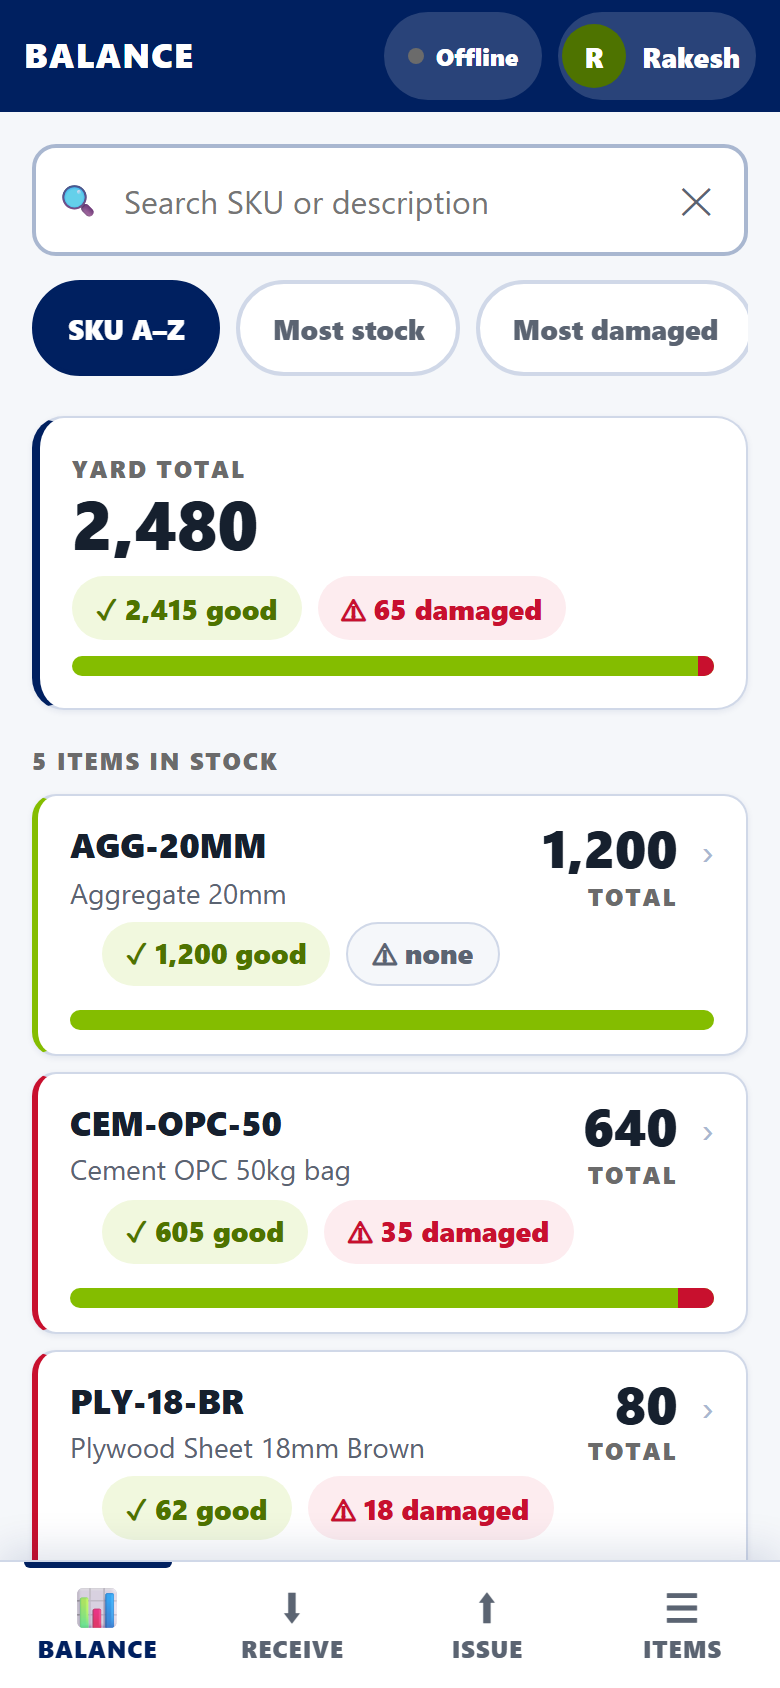
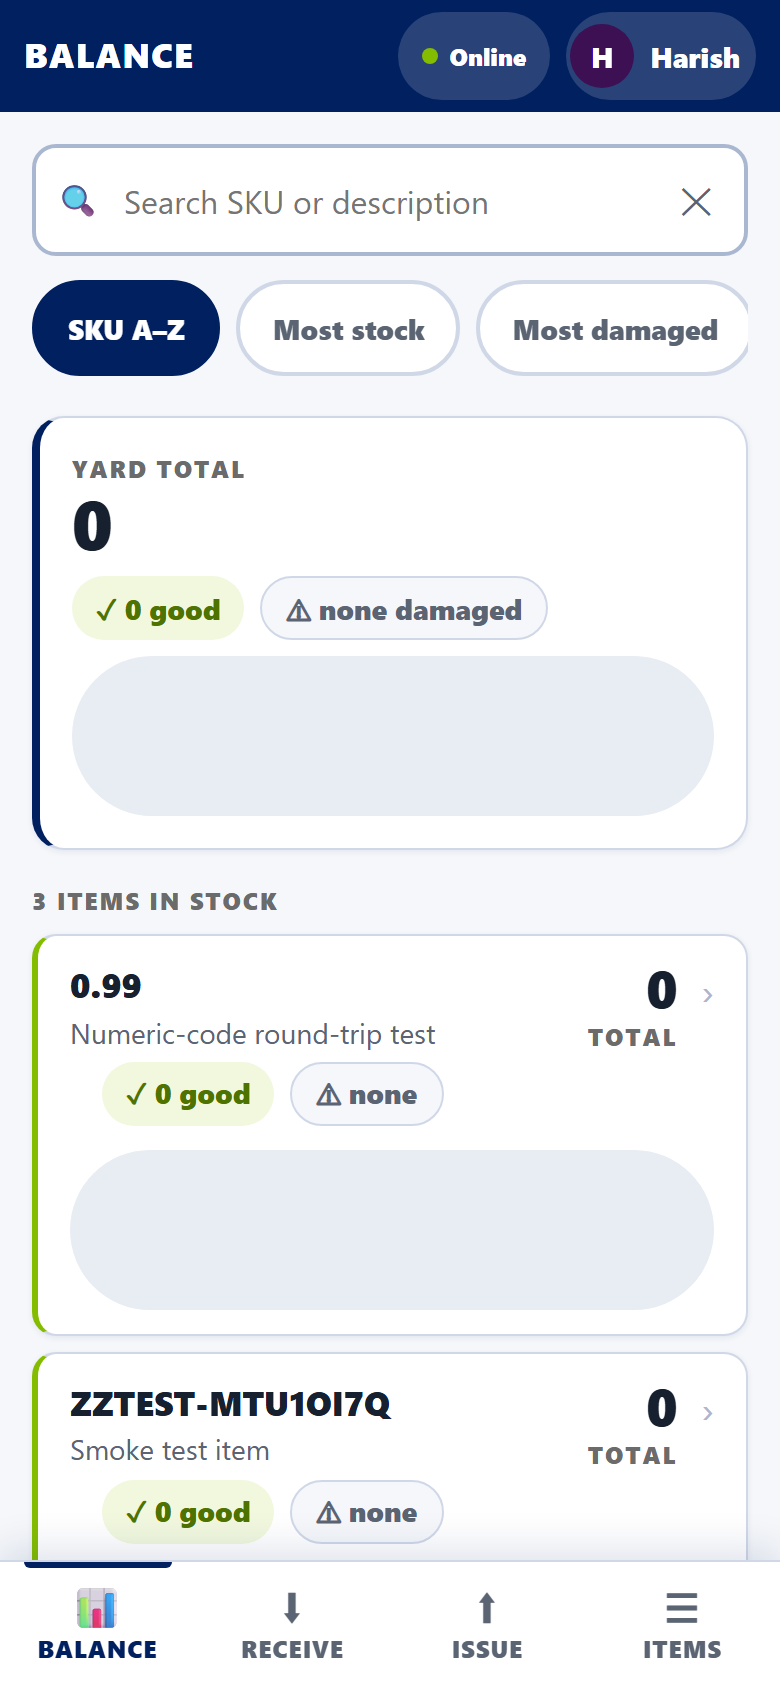
Purge all test data, fix silent reactivation, add the user guide
Cleanup (requested): the Sheet now holds ONLY the three real items.
Purged 32 ledger rows, 3 test items, 3 snapshot rows, 6 rejection log rows and
3 test users, plus Google's leftover empty Sheet1. Final state: Items 3 rows
(0.3, 0.5, 0.6), Ledger 0, Users 1 (Harish), Balance_Snapshot 0, Rejections 0.

purgeTestData's scope is HARDCODED to codes starting ZZTEST- or equal to 0.99,
and to a fixed list of test user names. The endpoint is reachable by anyone with
the /exec URL — that is what removes the login — so it must not take a target
from the caller. Real yard data is unreachable from it by construction. The
default-tab removal is likewise name-checked AND emptiness-checked.

Bug found while cleaning up: upsertItem defaulted  to true whenever the
field was absent, so editing an item's description silently RESURRECTED a
retired one. It was how the deactivated test item kept reappearing in the
picker. An absent field now means 'leave it as it is'.

Also: verify-numeric-sku's cleanup hardcoded rev:1, so from the second run on it
hit STALE_ITEM_REV and left its test item active in the real picker. It now
reads the live revision and asserts the deactivation actually took effect.

USER-GUIDE.md: how to install and use each screen, the damaged-is-inside-total
rule, what happens with no signal, and what every Google Sheet tab is for
(including which ones are safe to edit by hand and which are the source of
truth).

diff --git a/gas/Setup.js b/gas/Setup.js
@@ -129,6 +129,80 @@ function diag_() {
   };
 }
 
+/* ------------------------------------------------------------------ *
+ * purgeTestData — removes ONLY the rows created by the test scripts.
+ *
+ * The scope is HARDCODED, deliberately. This endpoint is reachable by anyone
+ * with the /exec URL (that is what removes the login), so it must not be able
+ * to accept a target from the caller. It can only ever delete rows whose item
+ * code starts with "ZZTEST-" or is exactly "0.99", and users named in the
+ * fixed list below. Real yard data is unreachable from here by construction.
+ * ------------------------------------------------------------------ */
+
+var TEST_SKU_EXACT = ['0.99'];
+var TEST_SKU_PREFIX = 'ZZTEST-';
+var TEST_USERS = ['SMOKE TEST', 'TEMPCHECK'];
+
+function isTestSku_(sku) {
+  var s = normSku_(sku);
+  if (!s) return false;
+  if (s.indexOf(TEST_SKU_PREFIX) === 0) return true;
+  return TEST_SKU_EXACT.indexOf(s) !== -1;
+}
+
+function purgeTestData_() {
+  var lock = LockService.getScriptLock();
+  if (!lock.tryLock(LOCK_MS)) {
+    return { error: 'Server busy, try again' };
+  }
+  try {
+    var removed = { ledger: 0, items: 0, snapshot: 0, rejections: 0, users: 0 };
+
+    // Delete bottom-up so earlier row indexes stay valid as we go.
+    removed.ledger = deleteRowsWhere_(T_LEDGER, function (r) { return isTestSku_(r[3]); });
+    removed.items = deleteRowsWhere_(T_ITEMS, function (r) { return isTestSku_(r[0]); });
+    removed.snapshot = deleteRowsWhere_(T_SNAP, function (r) { return isTestSku_(r[0]); });
+
+    // Every Rejections row so far came from a test run; a rejection is a log
+    // entry, not stock, so clearing it loses no inventory truth.
+    removed.rejections = deleteRowsWhere_(T_REJ, function () { return true; });
+
+    removed.users = deleteRowsWhere_(T_USERS, function (r) {
+      return TEST_USERS.indexOf(str_(r[0]).toUpperCase()) !== -1;
+    });
+
+    // Google's default empty tab, if it is still there and still empty. Named
+    // and emptiness-checked, so this cannot remove anything that holds data.
+    var stray = ss_().getSheetByName('Sheet1');
+    if (stray && stray.getLastRow() === 0 && stray.getLastColumn() === 0) {
+      ss_().deleteSheet(stray);
+      removed.defaultTab = true;
+    }
+
+    bumpEpoch_('ledger_epoch');
+    bumpEpoch_('items_epoch');
+    return removed;
+  } finally {
+    lock.releaseLock();
+  }
+}
+
+/** Delete data rows matching a predicate, bottom-up. Returns the count. */
+function deleteRowsWhere_(tabName, predicate) {
+  var sh = tab_(tabName);
+  var last = sh.getLastRow();
+  if (last < 2) return 0;
+  var vals = sh.getRange(2, 1, last - 1, sh.getLastColumn()).getValues();
+  var n = 0;
+  for (var i = vals.length - 1; i >= 0; i--) {
+    if (predicate(vals[i])) {
+      sh.deleteRow(i + 2);
+      n++;
+    }
+  }
+  return n;
+}
+
 /** Seed the user list. Safe to re-run — addUser_ is idempotent by name. */
 function seedUsers(names) {
   var list = names || ['Harish'];

diff --git a/gas/Ledger.js b/gas/Ledger.js
@@ -376,10 +376,16 @@ function upsertItem_(body) {
     var last = sh.getLastRow();
     var found = 0;
     var curRev = 0;
+    var curActive = true;
     if (last >= 2) {
       var vals = sh.getRange(2, 1, last - 1, H_ITEMS.length).getValues();
       for (var i = 0; i < vals.length; i++) {
-        if (normSku_(vals[i][0]) === sku) { found = i + 2; curRev = num_(vals[i][9]); break; }
+        if (normSku_(vals[i][0]) === sku) {
+          found = i + 2;
+          curRev = num_(vals[i][9]);
+          curActive = !(vals[i][4] === false || String(vals[i][4]).toUpperCase() === 'FALSE');
+          break;
+        }
       }
     }
     var now = new Date();
@@ -394,7 +400,9 @@ function upsertItem_(body) {
         return jsonErr_('STALE_ITEM_REV',
           'Someone else changed ' + sku + ' while you were editing. Reload and try again.', false);
       }
-      var active = body.active === undefined ? true : !!body.active;
+      // An ABSENT field means "leave it as it is". Defaulting to true here made
+      // editing a description silently reactivate a retired item.
+      var active = body.active === undefined ? curActive : !!body.active;
       // The SKU itself is never rewritten — the ledger is keyed on it.
       sh.getRange(found, 2, 1, 4).setValues([[description, uom, barcode, active]]);
       sh.getRange(found, 8, 1, 3).setValues([[by, now, curRev + 1]]);

diff --git a/gas/Code.js b/gas/Code.js
@@ -133,6 +133,7 @@ function route_(action, p, body) {
     /* maintenance */
     case 'setup':           return jsonOk_(ensureTabs_());
     case 'rebuildSnapshot': return jsonOk_(rebuildSnapshot_());
+    case 'purgeTestData':  return jsonOk_(purgeTestData_());
 
     default:
       return jsonErr_('UNKNOWN_ACTION', 'Unknown action: ' + action, false);

diff --git a/USER-GUIDE.md b/USER-GUIDE.md
@@ -1,0 +1,169 @@
+# Open Yard Inventory — how to use it
+
+**App:** https://skyperocketmyth.github.io/openyard_inventory/
+**Data:** the `Open Yard Inventory` Google Sheet
+
+No password. Works from any network. Works with no signal.
+
+---
+
+## 1. Install it on a phone (once)
+
+Open the link in the phone's browser, then:
+
+| Phone | What to tap |
+|---|---|
+| Android (Chrome) | menu **⋮** → **Add to Home screen** |
+| iPhone (Safari) | **Share** → **Add to Home Screen** |
+
+You get an app icon. From then on it opens like a normal app, with no browser bars.
+
+**First time it opens** it asks *"Who are you?"* — tap your name. That's remembered on
+that phone, and every entry you make is stamped with it. To switch, tap your name
+chip at the top right → **Change name**.
+
+---
+
+## 2. The four tabs at the bottom
+
+| Tab | What it's for |
+|---|---|
+| **Balance** | The home screen. What's in the yard right now, per item. |
+| **Receive** | Stock arriving. This is where damages on arrival are recorded. |
+| **Issue** | Stock going out. |
+| **Items** | The item list. Add a new SKU or fix a description. |
+
+---
+
+## 3. The one idea to understand: damaged is *inside* the total
+
+For every item you see three numbers:
+
+```
+     TOTAL  350   =   GOOD  338   +   DAMAGED  12
+```
+
+- **TOTAL** — everything physically sitting in the yard, damaged pieces included.
+- **DAMAGED** — how many of those are damaged.
+- **GOOD** — the rest, the ones you can actually send out.
+
+So:
+
+- Receive **100** with **5** damaged → the total goes **up by 100**. Five of them are damaged.
+- Mark **12** as damaged later → **the total does not change**. Twelve pieces move from
+  GOOD to DAMAGED. They're still in the yard.
+- Issuing stock can only take from **GOOD**.
+
+The coloured bar under each item shows this at a glance: green is good, the red bit
+at the end is the damaged part of the same pile.
+
+---
+
+## 4. Recording stock coming in
+
+1. Tap **Receive**
+2. Tap **Tap to choose item** → pick the item (search if the list is long)
+3. Type the **quantity received** — the big `+` `−` buttons and the `+1 +5 +10 +25`
+   chips are there so you don't have to use the keyboard
+4. If some arrived damaged, type how many in **Damaged in this receipt**.
+   Leave it at 0 if nothing was damaged.
+5. Check the grey box — it spells out what will happen:
+   *"Receiving 100 → 95 good + 5 damaged"*, and what the yard will hold afterwards
+6. Optionally add a **reference** (GRN, truck number) and a **note**
+7. Tap **Receive 100 PCS**
+
+The item stays selected afterwards, because several trucks of the same item usually
+arrive one after another. Only the numbers clear.
+
+---
+
+## 5. Recording stock going out
+
+1. Tap **Issue**
+2. Pick the item
+3. The green panel shows **Available to issue** — that's the GOOD stock. Damaged
+   pieces can't be issued, and it says so.
+4. Type the quantity. If you type more than is available, the app tells you the real
+   number and won't let you submit.
+5. Tap **Issue 20 PCS**
+
+---
+
+## 6. Recording damage on stock already in the yard
+
+1. Tap **Balance**
+2. Tap the item's row
+3. Tap **⚠ Record damage on this stock**
+4. Type how many are damaged, pick a **reason** (Rain / Handling / Rust / Bent /
+   Torn packing / Other), and tap **Record as damaged**
+5. Confirm
+
+The confirmation spells out exactly what changes, and the app reminds you: **the
+total stays the same**. The pieces haven't left the yard, they've just moved from
+good to damaged.
+
+---
+
+## 7. Adding a new item
+
+1. Tap **Items** → the blue **+** button at the bottom right
+2. Enter the **SKU code** (short code, e.g. `0.3`) and a **description**
+3. Pick a **unit** (PCS, KG, MT, BAG…)
+4. If you already have stock of it, enter the **opening stock** — good and, of those,
+   how many are damaged
+5. Tap **Save item**
+
+**The SKU code can't be changed later** once the item has any movements, because all
+its history is filed under that code. The description can always be edited.
+
+---
+
+## 8. Working with no signal
+
+You can keep recording with no signal at all. Nothing is lost.
+
+- The top of the screen shows **Offline · 3 pending** — three entries saved on the
+  phone, waiting to upload.
+- The balances still update, so the numbers on screen stay right.
+- When signal comes back it uploads by itself and the counter goes to zero.
+- Tap the status chip any time to see exactly what's waiting.
+
+**If an entry can't be saved** (for example someone else shipped that stock while you
+were offline, so there isn't enough left), you get a red bar: *"1 entry could not be
+saved — tap to fix"*. Tap it and you'll see what you typed and why it was refused,
+with **Try again** or **Discard**. Nothing disappears silently.
+
+---
+
+## 9. What each tab in the Google Sheet is
+
+Open the Sheet if you want to read or report on the raw data. **You don't need to
+edit it — the app does that.**
+
+| Tab | What it holds | Safe to edit by hand? |
+|---|---|---|
+| **Items** | The item list: code, description, unit, barcode, whether it's active, who added it, and a revision counter. | Description and unit — yes. **Never change a `sku`** that has movements. |
+| **Ledger** | **The real record.** One row per action, ever. Receipts, issues, damages, opening stock, cancellations. Nothing is edited or deleted — a mistake is corrected by adding a cancelling row. Every row carries who did it, when they did it, and which phone it came from. | **No.** This is the source of truth. Editing it changes history. |
+| **Users** | The names that appear in the app's "Who are you?" list. Set `active` to `FALSE` for someone who's left — their past entries keep their name. | Yes — add a name, or set `active` to FALSE. |
+| **Meta** | The app's own settings and counters. `read_only` set to `TRUE` puts the app in maintenance mode (entries still save on phones and upload later). The `epoch` numbers are how the app knows when data changed. | Only `read_only`. Leave the rest alone. |
+| **Balance_Snapshot** | The current total / damaged / good per item. This is **not** the truth — it's a fast running total the app keeps so it doesn't have to re-add the whole Ledger every time. It can be rebuilt from the Ledger at any moment. | No need. If it ever looks wrong, it can be rebuilt from the Ledger. |
+| **Rejections** | A log of entries the app refused, and why. Useful for seeing what staff *tried* to record even when it wasn't accepted. | Yes — it's only a log, safe to clear. |
+
+**Why the Ledger works this way:** because nothing is ever overwritten, every number
+in the app can be traced back to the exact rows that produced it, and a late-arriving
+offline entry can't corrupt a total. It's also what lets you answer "who recorded
+that, and when?" months later, even though nobody logs in.
+
+---
+
+## 10. Two things worth knowing
+
+**Anyone with the app link can record entries.** That's the cost of having no
+password. Every entry is stamped with a name and nothing can be deleted, only
+cancelled visibly — so mistakes and mischief are both traceable. Don't share the
+link outside the team.
+
+**The data lives in a personal Google account.** Fine for a working yard tool. If
+this becomes an official RSA record, it should move onto RSA infrastructure with
+proper Microsoft sign-in — that's a separate piece of work, and it would mean giving
+up the no-login convenience.
